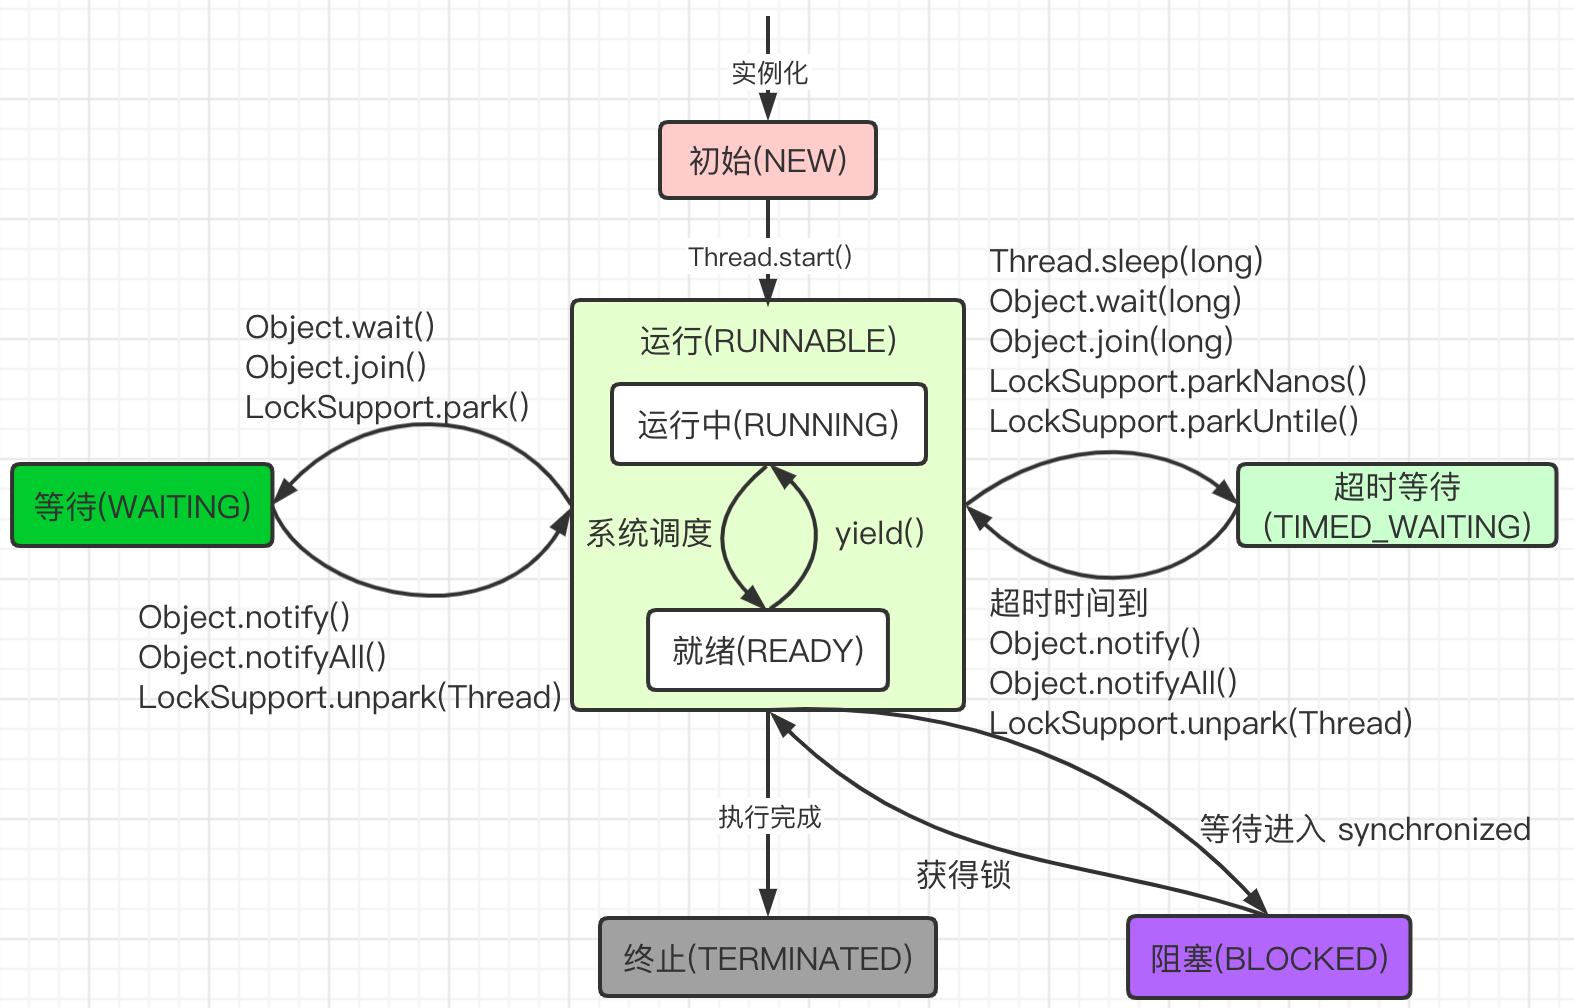
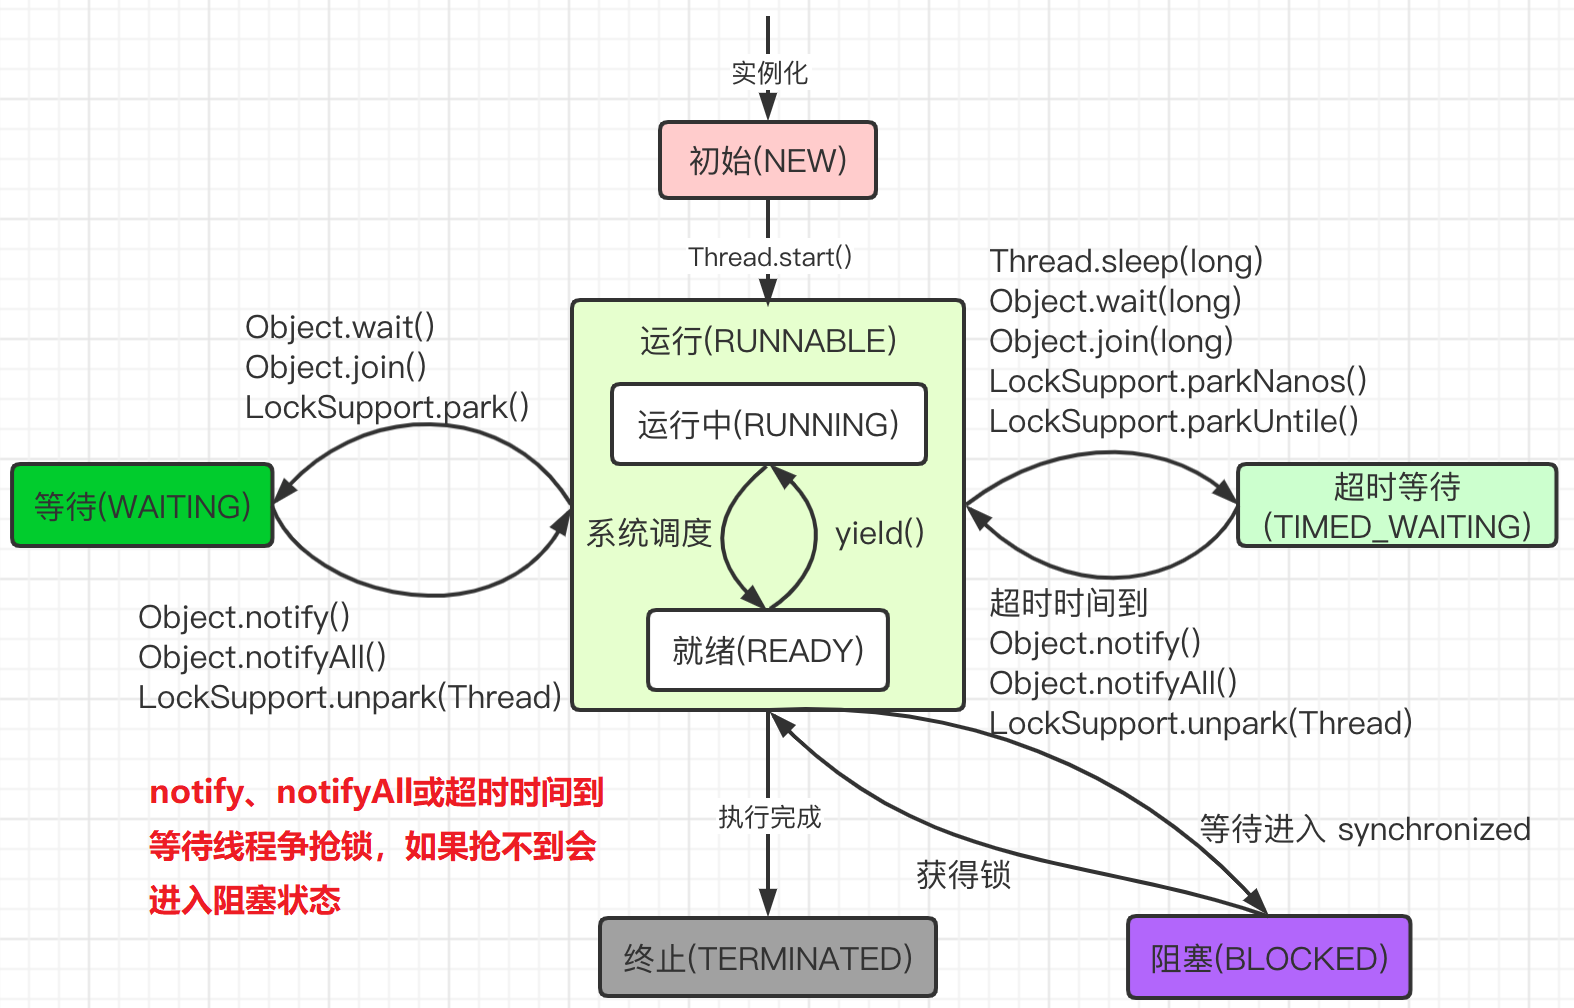
no message

Changed region(s): [[0.0934, 0.7688, 0.4047, 0.9226]]

diff --git a/Java/Java 多线程/Java 并发编程基础.md b/Java/Java 多线程/Java 并发编程基础.md
@@ -134,9 +134,11 @@ public class VisibilityTest {
 
 ### 1.5.1 as-if-serial 语义
 
-as-if-serial语义的意思是：不管编译器和CPU如何重排序，必须保证在单线程情况下程序的结果是正确的。
+`as-if-serial` 语义，不管怎么重排序，（单线程）程序的执行结果都不能被改变。
 
-以下数据有依赖关系，不能重排序。
+`数据依赖性` 两个操作访问同一变量，其中一个操作为写操作，此时两个操作之间就存在数据依赖性，编译器和处理器不会改变存在数据依赖性的两个操作的执行顺序。这里所说的数据依赖性仅针对单个处理器中执行的指令序列和单个线程中执行的操作，不同处理器之间和不同线程之间的数据依赖性不被编译器和处理器考虑。
+
+以下有数据依赖关系，不能重排序。
 
 写后读：
 
@@ -180,6 +182,16 @@ int b = 2;
 int a = 1; 
 int c = a + b;
 ```
+
+```java
+if (flag) { //3
+ int i = a * a;//4
+}
+```
+
+`控制依赖性 ` 操作 3 和 操作 4 存在控制依赖关系，会影响指令序列执行的并行度。编译器和处理器会采用`猜测(Speculation)`执行来克服执行相关性对并行度的影响。猜测实际上是对操作3，4重排序，把4的结果临时保存到一个重排序缓存中。
+
+在多线程程序中，对存在控制依赖的操作重排序可能会改变程序结果。
 
 #  2 线程的生命周期
 
@@ -261,9 +273,12 @@ public enum State {
 * `TIMED_WAITING`场景：某一线程因为调用以下带有指定正等待时间的方法之一而处于定时等待状态：
 
   - Thread.sleep(long millis)
-- 带有超时值的 Object.wait()
+  
+  - 带有超时值的 Object.wait()
+  
   - 带有超时值的 Thread.join()
-- LockSupport.parkNanos()
+  
+  - LockSupport.parkNanos()
   - LockSupport.parkUntil() 分析：既有可能进入等待队列，也有可能进入其他阻塞的阻塞状态。和WAITING区别在于是否指定时间
 
 <img src="Java 并发编程基础.assets/image-20210410153309138.png" alt="image-20210410153309138" style="zoom:50%;" />
@@ -618,9 +633,9 @@ public class InterruptionInJava01 {
 
 ### Thread.interrupted
 
-interrupted()  获取线程的打断标记，调用后清空打断标记，即如果获取为true 调用后打断标记为false (不常用)
+interrupted() 获取线程的打断标记，调用后清空打断标记，即如果获取为true 调用后打断标记为false (不常用)
 
-上面的案例中，通过 interrupt，设置了一个标识告诉线程可以终止了，线程中还提供了静态方法 Thread.interrupted()对设置中断标识的线程复位。比如在 上面的案例中，外面的线程调用 thread.interrupt 来设置中断标识，而在线程里面，又通过 Thread.interrupted 把线 程的标识又进行了复位。
+上面的案例中，通过 interrupt，设置了一个标识告诉线程可以终止了，线程中还提供了静态方法 Thread.interrupted()对设置中断标识的线程复位。比如在上面的案例中，外面的线程调用 thread.interrupt 来设置中断标识，而在线程里面，又通过 Thread.interrupted 把线程的标识又进行了复位。
 
 ```java
 public class InterruptedDemo {
@@ -643,7 +658,7 @@ public class InterruptedDemo {
 
 **其他的线程复位**
 
-除了通过 Thread.interrupted 方法对线程中断标识进行复位以外 ， 还有一种被动复位的场景，就是对抛出 InterruptedException 异常的方法 ， 在 InterruptedException 抛出之前，JVM 会先把线程的中断标识位清除，然后才会抛出 InterruptedException，这个时候如果调用 isInterrupted 方法，将会返回 false(上例 InterruptionInJava01.java)。
+除了通过 Thread.interrupted 方法对线程中断标识进行复位以外 ， 还有一种被动复位的场景，就是对抛出 InterruptedException 异常的方法 ， `在 InterruptedException 抛出之前，JVM 会先把线程的中断标识位清除`，然后才会抛出 InterruptedException，这个时候如果调用 isInterrupted 方法，将会返回 false(上例 InterruptionInJava01.java)。
 
 **为什么要复位**
 

diff --git a/Java/Java 多线程/volatile.md b/Java/Java 多线程/volatile.md
@@ -309,20 +309,6 @@ public class AtomicIntegerTest {
 
 重排序虽然可以提高执行效率，但是在并发执行下，JVM虚拟机底层并不能保证重排序带来的安全性等问题。
 
-> `数据依赖性` 两个操作访问同一变量，其中一个操作为写操作，此时两个操作之间就存在数据依赖性，编译器和处理器不会改变存在数据依赖性的两个操作的执行顺序。这里所说的数据依赖性仅针对单个处理器中执行的指令序列和单个线程中执行的操作，不同处理器之间和不同线程之间的数据依赖性不被编译器和处理器考虑。
->
-> `as-if-serial` 语义，不管怎么重排序，（单线程）程序的执行结果都不能被改变。
->
-> ```java
-> if (flag) { //3
->     int i = a * a;//4
-> }
-> ```
->
-> `控制依赖性 ` 操作 3 和 操作 4 存在控制依赖关系，会影响指令序列执行的并行度。编译器和处理器会采用`猜测(Speculation)`执行来克服执行相关性对并行度的影响。猜测实际上是对操作3，4重排序，把4的结果临时保存到一个重排序缓存中。
->
-> 在多线程程序中，对存在控制依赖的操作重排序可能会改变程序结果。
-
 ```java
 public class OutOfOrderDemo {
     public static int a = 0, b = 0;
